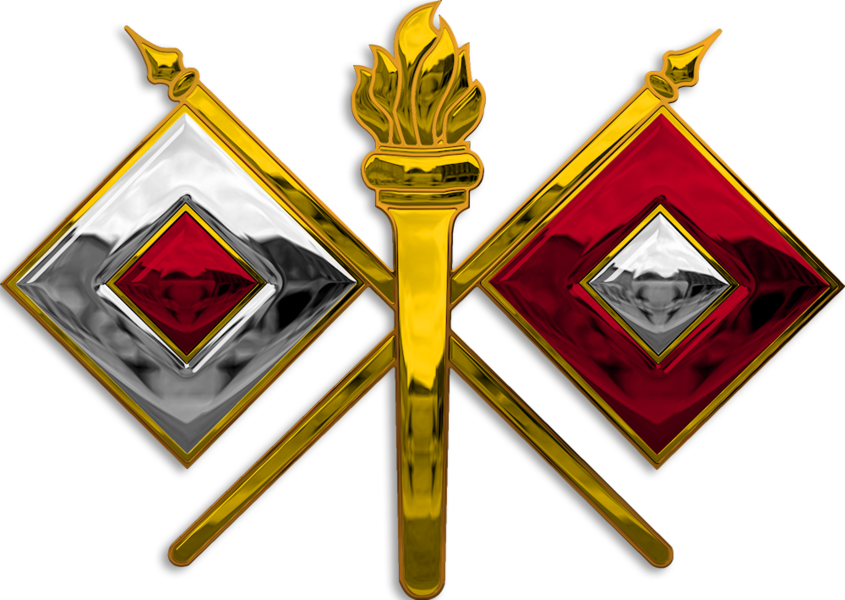
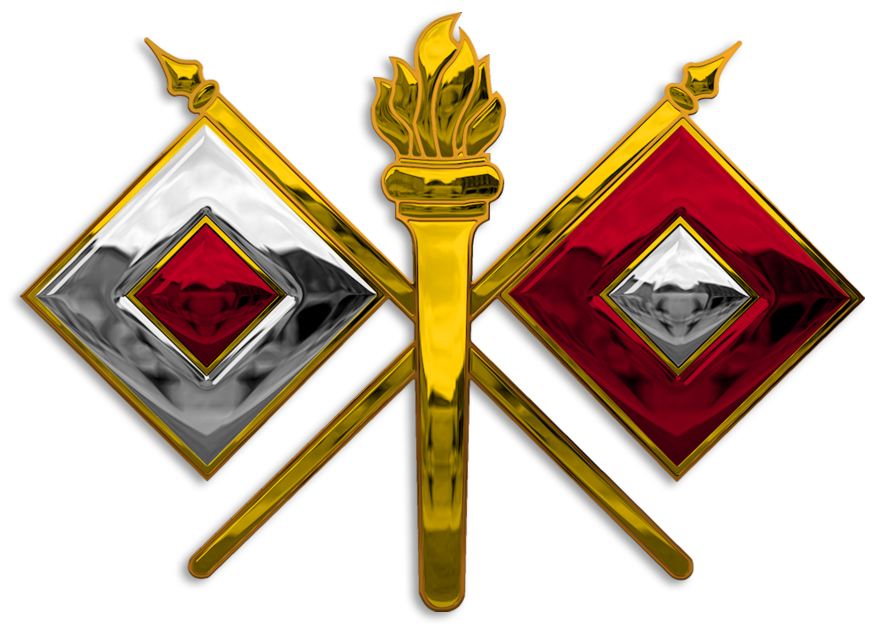
update signal image

Changed region(s): [[0.0, 0.0, 1.0, 1.0], [0.5231, 0.87, 0.5538, 0.9]]

diff --git a/index.html b/index.html
@@ -83,7 +83,7 @@
 
     <div class="container-fluid d-flex flex-column">
       <h1 class="mx-auto p-2 mt-5 mobile-text" style="text-shadow: 2px 2px 7px #bababa;">Welcome to the 572 BEB S6</h1>
-      <img src="https://officialpsds.com/imageview/70/1x/701xkz_large.png" id="signalInsignia" class="d-inline-block align-top mx-auto my-5" alt="">
+      <img src="img/signalShadow.png" id="signalInsignia" class="d-inline-block align-top mx-auto my-5" alt="">
     </div>
 
     <footer class="footer w-100 text-center border-top fixed-bottom">
